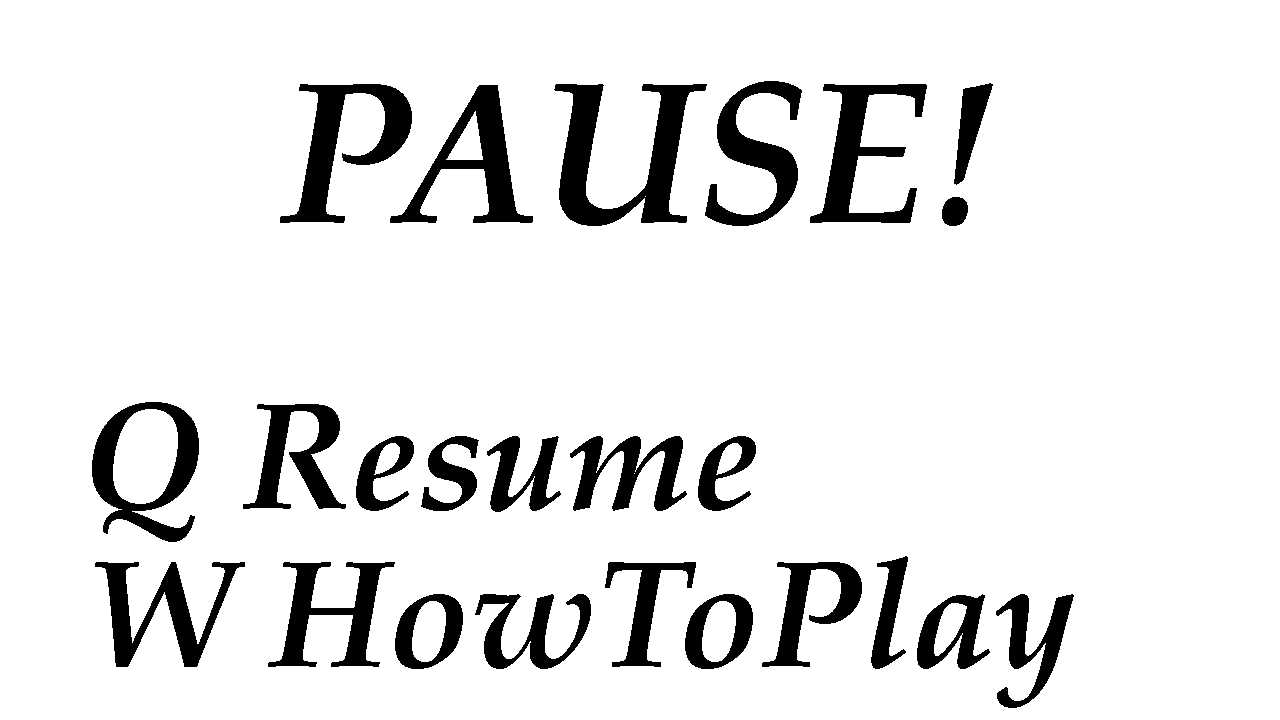
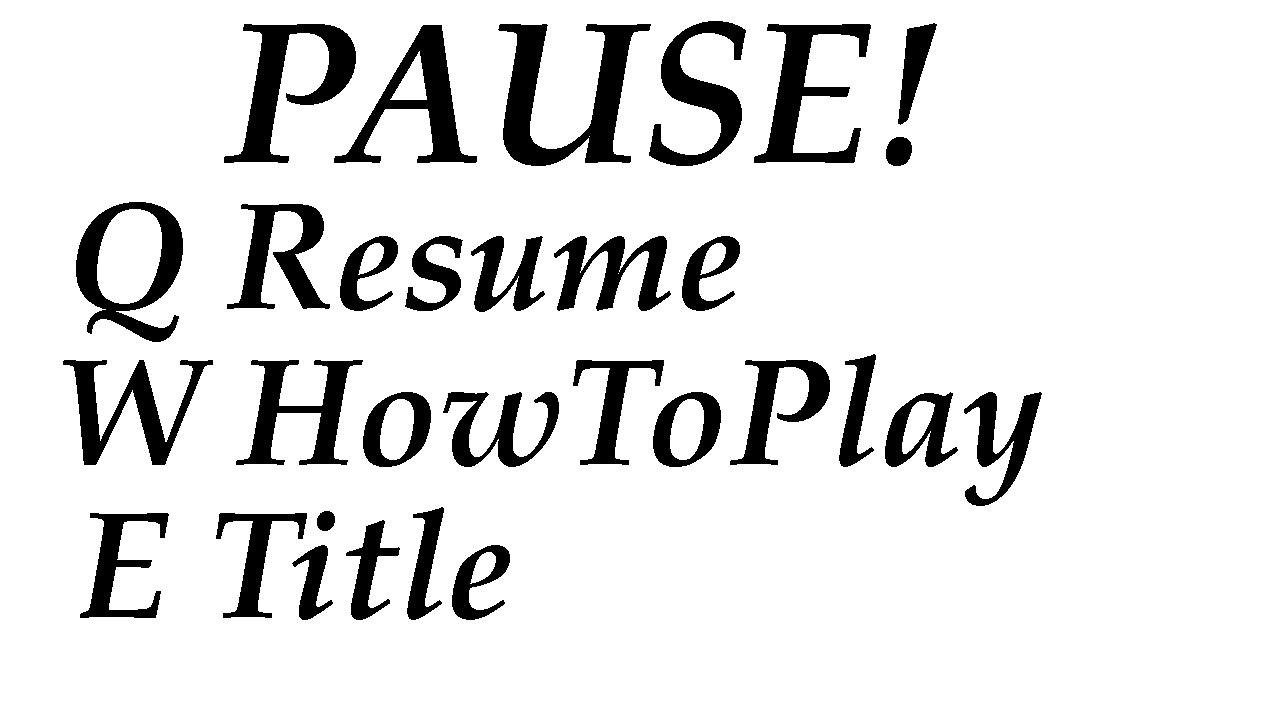
タイトルに戻る機能追加

Changed region(s): [[0.0312, 0.275, 0.8438, 1.0], [0.1562, 0.0306, 0.7812, 0.4278]]

diff --git a/TD3_01/Application/Game/Scene/GamePlayScene.cpp b/TD3_01/Application/Game/Scene/GamePlayScene.cpp
@@ -261,6 +261,8 @@ void GamePlayScene::Initialize3d() {
 	ParamaterFun(positionFan[0], positionFan[1], positionFan[2], positionFan[3], positionFan[4]);
 
 	isPause_ = false;
+	isReally_ = false;
+	isrule_ = false;
 }
 
 void GamePlayScene::Initialize2d() {
@@ -269,12 +271,14 @@ void GamePlayScene::Initialize2d() {
 	drawBas_->LoadTexture(12, "tutorial2.png");
 	drawBas_->LoadTexture(13, "pauseinfo.png");
 	drawBas_->LoadTexture(14, "resetinfo.png");
+	drawBas_->LoadTexture(15, "really.png");
 
 	spritePause_->Initialize(drawBas_, 10);
 	spritePauseInfo_->Initialize(drawBas_, 13);
 	spriteResetInfo_->Initialize(drawBas_, 14);
 	rule_->Initialize(drawBas_, 11);
 	rule2_->Initialize(drawBas_, 12);
+	really_->Initialize(drawBas_, 15);
 
 	spritePause_->SetColor({ 1.0f,1.0f,1.0f,0.75f });
 	spriteResetInfo_->SetPosition({ 900.0f,0.0f });
@@ -517,6 +521,17 @@ void GamePlayScene::Update3d() {
 		windpm_->Update();
 
 	}
+	else if (isrule_)
+	{
+		if (input_->TriggerKey(DIK_Q))
+		{
+			if (input_->TriggerKey(DIK_Q) && ruleCount == 1) {
+				isrule_ = false;
+
+			}
+			ruleCount++;
+		}
+	}
 	else if (isPause_)
 	{
 		if (input_->TriggerKey(DIK_W))
@@ -529,18 +544,31 @@ void GamePlayScene::Update3d() {
 		{
 			isPause_ = false;
 		}
+		if (input_->TriggerKey(DIK_E))
+		{
+			isReally_ = true;
+			isPause_ = false;
+		}
+
 	}
-	else if (isrule_)
+
+	if (isReally_)
 	{
+		//タイトルへ
 		if (input_->TriggerKey(DIK_Q))
 		{
-			if (input_->TriggerKey(DIK_Q) && ruleCount == 1) {
-				isrule_ = false;
+			//シーンの切り替えを依頼
+			SceneManager::GetInstance()->ChangeScene("TITLE");
 
-			}
-			ruleCount++;
+		}
+		//Pauseへ
+		if (input_->TriggerKey(DIK_W))
+		{
+			isPause_ = true;
+			isReally_ = false;
 		}
 	}
+
 }
 
 void GamePlayScene::Update2d() {
@@ -584,10 +612,14 @@ void GamePlayScene::Draw2d() {
 		{
 			rule2_->Draw();
 		}
+
+
 	}
 	else if (isPause_)
 	{
 		spritePause_->Draw();
+
+
 	}
 	else
 	{
@@ -596,6 +628,11 @@ void GamePlayScene::Draw2d() {
 			spritePauseInfo_->Draw();
 			spriteResetInfo_->Draw();
 		}
+	}
+
+	if (isReally_)
+	{
+		really_->Draw();
 	}
 }
 
@@ -629,6 +666,7 @@ void GamePlayScene::Finalize() {
 	SafeDelete(spriteResetInfo_);
 	SafeDelete(rule_);
 	SafeDelete(rule2_);
+	SafeDelete(really_);
 
 	SafeDelete(lightGroup_);
 	SafeDelete(camera_);

diff --git a/TD3_01/Application/Game/Scene/GamePlayScene.h b/TD3_01/Application/Game/Scene/GamePlayScene.h
@@ -141,6 +141,7 @@ private:
 
 	Sprite* rule_ = new Sprite();
 	Sprite* rule2_ = new Sprite();
+	Sprite* really_ = new Sprite();
 
 	//ポジション
 	Vector3 positionPlayer = { 4.0f,0.0f,18.0f };
@@ -156,6 +157,8 @@ private:
 	bool isClear_ = false;
 	//ポーズしたか
 	bool isPause_ = false;
+	//タイトルに戻るか
+	bool isReally_ = false;
 	//ルール説明か
 	bool isrule_ = false;
 	int ruleCount = 0;
